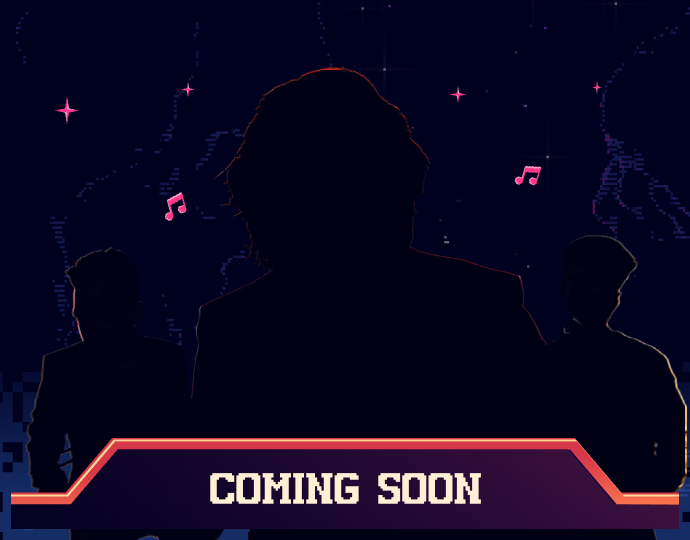
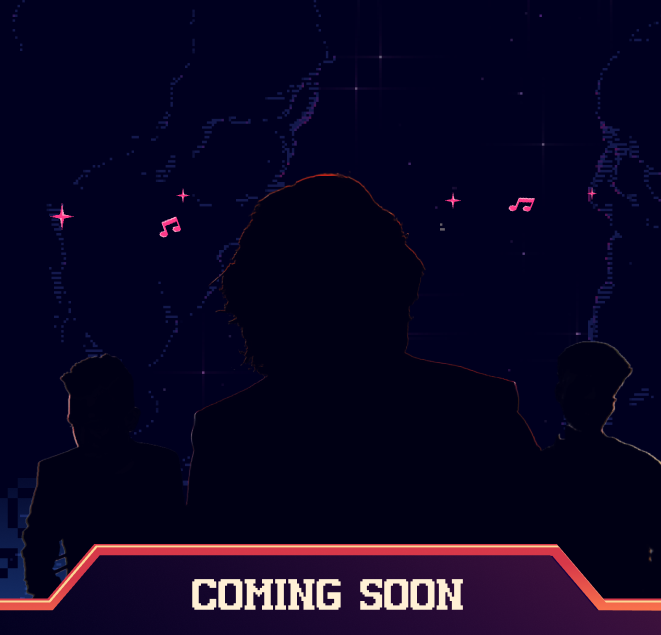
ab to ho gya bhaiya :(

diff --git a/src/app/events/_Components/comingsoon.module.css b/src/app/events/_Components/comingsoon.module.css
@@ -22,11 +22,12 @@
   font-family: "brickPixel";
   font-size: 5rem; /* Adjust the size as needed */
   font-weight: bold; /* Make the text thicker */
-  color: #fff;
+  color: #efb1d0; /* Pinkish color */
   text-align: center;
-  text-shadow: 0 0 10px rgba(255, 255, 255, 0.7), 
-               0 0 20px rgba(255, 255, 255, 0.5), 
-               0 0 30px rgba(255, 255, 255, 0.3),
-               0 0 40px rgba(255, 255, 255, 0.2),
-               0 0 50px rgba(255, 255, 255, 0.1);
+  text-shadow: 0 0 5px rgba(255, 105, 180, 0.5), 
+               0 0 10px rgba(255, 105, 180, 0.4), 
+               0 0 15px rgba(255, 105, 180, 0.3),
+               0 0 20px rgba(255, 105, 180, 0.2),
+               0 0 25px rgba(255, 105, 180, 0.1);
+  letter-spacing: 0.4vw;
 }

diff --git a/src/app/events/_Components/page.jsx b/src/app/events/_Components/page.jsx
@@ -108,7 +108,7 @@ export default function Page() {
         <div className={`${styles.box1} ${isExpanded ? styles.box1Visible : ""}`}>
           <div className={styles.nextButton} onClick={handleNext}>
             <Image src={next} className={styles.nextImage} alt="next button" />
-            <p className={styles.eventName}>{images[currentIndex].name}</p>
+            <p className={styles.eventName}>{images[currentIndex+1].name}</p>
           </div>
           <div className={`${styles.right} ${isExpanded ? styles.up : ""}`}>
           {currentIndex === 0 && (

diff --git a/src/app/events/_Components/events.module.css b/src/app/events/_Components/events.module.css
@@ -134,6 +134,15 @@
   color: #FFEBD3B2;
   line-height: 2.63vw;
 }
+.nextImage {
+  /* existing styles */
+  transition: width 0.3s ease, height 0.3s ease; /* Smooth transition for the glow effect */
+}
+
+.nextButton:hover .nextImage{
+  width: 5.5vw;
+  height: 4.5vw;
+}
 .nextImage{
   width: 5vw;
   height: 4vw;
